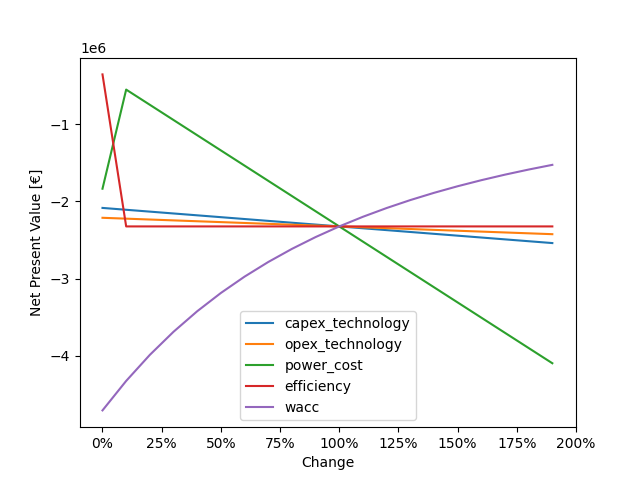
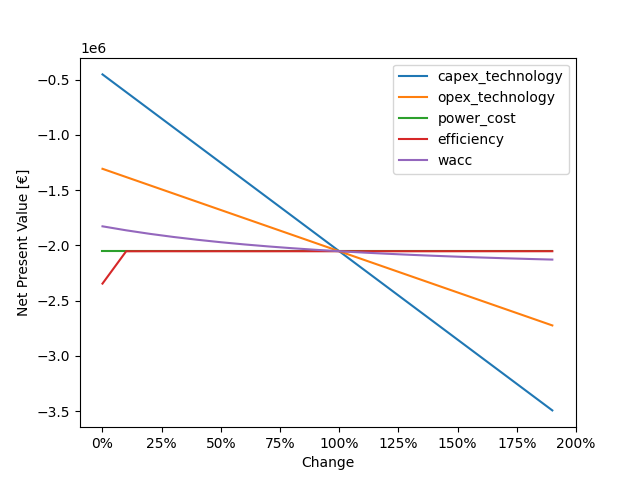
new functions

diff --git a/OBMETSC/templates/output.html b/OBMETSC/templates/output.html
@@ -49,7 +49,6 @@
     <p style="padding-bottom: 30px; width: 300px;">
 
     <div class="content">
-    <!--{% if infrastructure %}-->
     <hr>
     <h4>Infrastructure Expenses:</h4><br>
     <label class="form-label">Expected expenses on infrastructure over the duration of {{runtime}} years</label>
@@ -72,11 +71,11 @@
             </tbody>
     </table>
     <p class="fw-bold">The Net Present Value is: {{'{0:,}'.format(npv_infrastructure | int)}} EUR</p>
-   <!--{% endif %}-->
-    <div>
+    <hr>
+    <div class="content">
+    <label class="form-label">Sensitivity for X-Production:</label><br>
     <img src='/static/sensitivity_infra_plot.png'/>
-
+    </div>
 </div>
 <p style="padding-bottom: 30px; width: 300px;">
-
 {% endblock %}

diff --git a/OBMETSC/functions.py b/OBMETSC/functions.py
@@ -24,6 +24,8 @@ import math
 import matplotlib.pyplot as plt
 import matplotlib.ticker as mtick
 from matplotlib.ticker import PercentFormatter
+import copy
+from dataclasses import dataclass
 from databank import *
 
 
@@ -85,18 +87,18 @@ ENERGY_DEMAND_LIQU = 7
 ENERGY_DEMAND_EVA = 0
 ENERGY_DEMAND_PUMP = 0
 
-# @dataclasses
-# class InfrastructureData:
-    # amount_trailer: int
-    # storage_dimension: float
-    # onsite_storage: float
-    # transport_pressure: int
-    # pipe_length: float
-    # throughput: float
-    # throughput_m3: float
-    # throughput_kw: float
-    # capacity: int
-    # energy_demand_year: float
+@dataclass
+class InfrastructureData:
+    amount_trailer: int
+    storage_dimension: float
+    onsite_storage: float
+    transport_pressure: int
+    pipe_length: float
+    throughput: float
+    throughput_m3: float
+    throughput_kw: float
+    capacity: int
+    energy_demand_year: float
 
 
 # Function calculates the production profile for a renewable energy plant
@@ -641,7 +643,7 @@ def infrastructure_dimension(ptx_technology, do_infrastructure, infrastructure_t
 
             energy_demand_year = ENERGY_DEMAND_LIQU * production_profile['production'].sum()
 
-    return (amount_trailer, storage_dimension, onsite_storage, transport_pressure, pipe_length, throughput,
+    return InfrastructureData(amount_trailer, storage_dimension, onsite_storage, transport_pressure, pipe_length, throughput,
             throughput_m3, throughput_kw, capacity, energy_demand_year)
 
 
@@ -651,10 +653,10 @@ def infrastructure_dcf(do_infrastructure, infrastructure_type, runtime, wacc, po
     power_cost_kwh = power_cost / 1000 # von €/MWh zu €/kWh
 
     if do_infrastructure == 'no':
-        capex_storage = CAPEX_STORAGE_CH2_EURO_PRO_KG * infrastructure[1]
+        capex_storage = CAPEX_STORAGE_CH2_EURO_PRO_KG * infrastructure.storage_dimension
         opex_storage = OPEX_STORAGE_RATE * capex_storage
-        cost_energy_demand_year = infrastructure[9] * power_cost_kwh
-        if infrastructure[1] > 0:
+        cost_energy_demand_year = infrastructure.energy_demand_year * power_cost_kwh
+        if infrastructure.storage_dimension > 0:
             capex_compressor = CAPEX_COMPRESSOR_1
             opex_compressor = OPEX_COMPRESSOR_1 + cost_energy_demand_year
         else:
@@ -704,20 +706,20 @@ def infrastructure_dcf(do_infrastructure, infrastructure_type, runtime, wacc, po
             capex_trailer = 0
 
         if infrastructure_type == "Tubetrailer":
-            capex_onsite_storage = infrastructure[2] * CAPEX_STORAGE_CH2_EURO_PRO_KG
+            capex_onsite_storage = infrastructure.onsite_storage * CAPEX_STORAGE_CH2_EURO_PRO_KG
             opex_onsite_storage = capex_onsite_storage * OPEX_STORAGE_RATE
-            capex_storage = infrastructure[1] * CAPEX_STORAGE_CH2_EURO_PRO_KG
+            capex_storage = infrastructure.storage_dimension * CAPEX_STORAGE_CH2_EURO_PRO_KG
             opex_storage = OPEX_STORAGE_RATE * capex_storage
-            cost_energy_demand_year = infrastructure[9] * power_cost_kwh
-            if infrastructure[3] == 200:
+            cost_energy_demand_year = infrastructure.energy_demand_year * power_cost_kwh
+            if infrastructure.transport_pressure == 200:
                 capex_compressor = CAPEX_COMPRESSOR_1
                 opex_compressor = OPEX_COMPRESSOR_1 + cost_energy_demand_year
                 capex_trailer = CAPEX_TRAILER_200bar
-            elif infrastructure[3] == 350:
+            elif infrastructure.transport_pressure == 350:
                 capex_compressor = CAPEX_COMPRESSOR_1 + CAPEX_COMPRESSOR_2
                 opex_compressor = OPEX_COMPRESSOR_1 + OPEX_COMPRESSOR_2 + cost_energy_demand_year
                 capex_trailer = CAPEX_TRAILER_350bar
-            elif infrastructure[3] == 550:
+            elif infrastructure.transport_pressure == 550:
                 capex_compressor = CAPEX_COMPRESSOR_1 + CAPEX_COMPRESSOR_2
                 opex_compressor = OPEX_COMPRESSOR_1 + OPEX_COMPRESSOR_2 + cost_energy_demand_year
                 capex_trailer = CAPEX_TRAILER_550bar
@@ -731,14 +733,14 @@ def infrastructure_dcf(do_infrastructure, infrastructure_type, runtime, wacc, po
             opex_lh2_pump = 0
 
         if infrastructure_type == "LNG":
-            capex_onsite_storage = infrastructure[2] * CAPEX_STORAGE_LH2_EURO_PRO_KG
+            capex_onsite_storage = infrastructure.onsite_storage * CAPEX_STORAGE_LH2_EURO_PRO_KG
             opex_onsite_storage = capex_onsite_storage * OPEX_STORAGE_RATE
-            capex_storage = infrastructure[1] * CAPEX_STORAGE_LH2_EURO_PRO_KG
+            capex_storage = infrastructure.storage_dimension * CAPEX_STORAGE_LH2_EURO_PRO_KG
             opex_storage = OPEX_STORAGE_RATE * capex_storage
-            capex_trailer = infrastructure[0] * 200 * infrastructure[8]  # capex_trailer_spez = 200
+            capex_trailer = infrastructure.amount_trailer * 200 * infrastructure.capacity  # capex_trailer_spez = 200
             opex_trailer = OPEX_TRAILER_RATE * capex_trailer
             opex_transport = opex_trailer + OPEX_TRUCK
-            cost_energy_demand_year = infrastructure[9] * power_cost_kwh
+            cost_energy_demand_year = infrastructure.energy_demand_year * power_cost_kwh
             capex_liqu = 105000000 * max((((infrastructure[5] * 24)/50)**0.66), 1)
             opex_liqu = OPEX_LIQU_RATE * capex_liqu + cost_energy_demand_year
             capex_evaporator = CAPEX_EVA_EURO_PRO_KG * (infrastructure[5] * 24)
@@ -877,23 +879,25 @@ def sensitivity(power_technology, capex_technology, opex_technology, runtime, po
 
 
 def sensitivity_infra(do_infrastructure, infrastructure_type, runtime, wacc, power_cost, infrastructure):
-    output = {"power_cost": [], "runtime": []}
+    output_1 = {"power_cost": [], "runtime": [], "capacity": []}
     for x in range(20):
         factor = (x/10)
         _, npv = infrastructure_dcf(do_infrastructure, infrastructure_type, runtime, wacc, power_cost * factor,
                                     infrastructure)
-        output["power_cost"].append(npv)
-        _, npv = infrastructure_dcf(do_infrastructure, infrastructure_type, runtime * factor, wacc, power_cost,
+        output_1["power_cost"].append(npv)
+        _, npv = infrastructure_dcf(do_infrastructure, infrastructure_type, int(runtime * factor), wacc, power_cost,
                                     infrastructure)
-        output["runtime"].append(npv)
+        output_1["runtime"].append(npv)
+        temp = copy.deepcopy(infrastructure)
+        temp.capacity *= factor
+        _, npv = infrastructure_dcf(do_infrastructure, infrastructure_type, runtime, wacc, power_cost, temp)
+        output_1["capacity"].append(npv)
 
-    for name, values in output.items():
+    for name, values in output_1.items():
         plt.plot(values, label=name)
-        plt.xticks(np.arange(0,21,2.5),['0%','25%','50%','75%','100%','125%','150%','175%','200%'])
-        plt.ylabel('Net Present Value [€]')
-        plt.xlabel('Change')
-        plt.legend()
-        plt.savefig("static/sensitivity_infra_plot.png")
-        plt.show()
-        plt.close()
+    plt.ylabel('Net Present Value [€]')
+    plt.xlabel('Change')
+    plt.legend()
+    plt.savefig("static/sensitivity_infra_plot.png")
+    plt.close()
 

diff --git a/OBMETSC/main.py b/OBMETSC/main.py
@@ -227,7 +227,7 @@ def get():
                                      min_storage_dimension_kg, storage_time_hour)
 
     h = infrastructure_dcf(do_infrastructure, infrastructure_type, runtime, wacc, power_cost, g)
-
+    sensitivity_infra(do_infrastructure, infrastructure_type, runtime, wacc, power_cost, g)
 
 # a graphic is created from the power production profile
     if input_technology in list_pp and ptx_technology in list_ptx:
